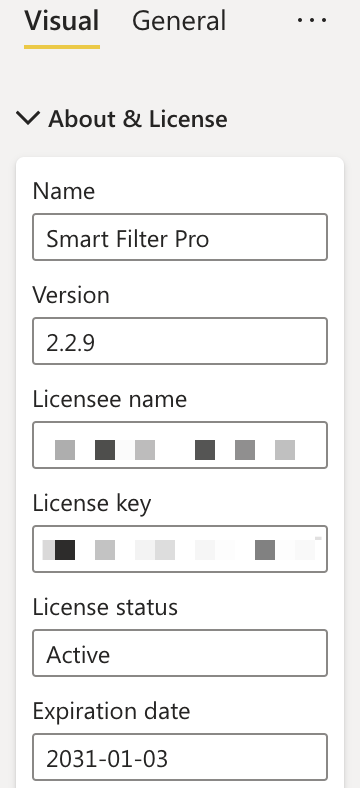
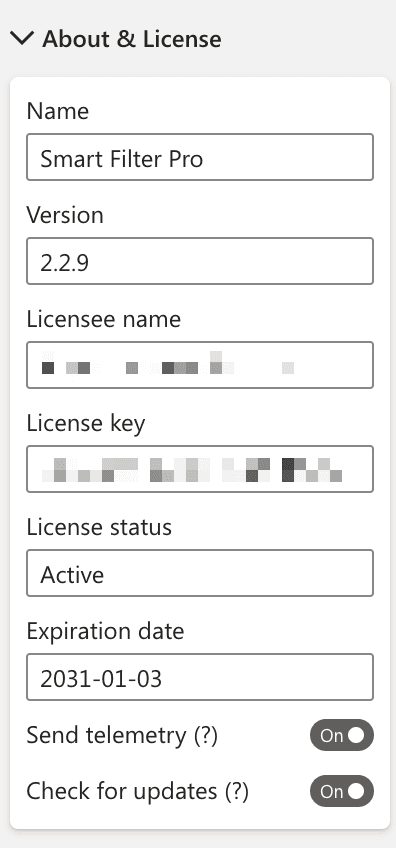
Fix screenshots -2

Changed region(s): [[0.0306, 0.1218, 0.9778, 1.0], [0.0306, 0.0, 0.6417, 0.0609]]

diff --git a/assets/css/main.min.css b/assets/css/main.min.css
@@ -2,4 +2,4 @@
  * OKVIZ Documentation
  * Copyright (c) OKVIZ corp. - All rights reserved.
  * https://docs.okviz.com
[2 lines of base64/hex data omitted]

diff --git a/assets/css/page.less b/assets/css/page.less
@@ -78,6 +78,12 @@
             &.nomargin {
                 margin:0;
             }
+
+            &.naked {
+                border: none;
+                border-radius: 0;
+                .noshadow;
+            }
             &.fl {
                 margin: 0 40px 20px 0;
             }

diff --git a/_docs/smart-filter-pro/options/about/check-for-updates.md b/_docs/smart-filter-pro/options/about/check-for-updates.md
@@ -3,7 +3,7 @@ layout:             page
 title:              Check for Updates
 published:          true
 date:               2021-11-15
-modified:           2022-07-16
+modified:           2022-07-22
 order:              /smart-filter-pro/options/about/check-for-updates
 internal:           updates
 ---
@@ -11,12 +11,12 @@ internal:           updates
 
 Power BI frequently receives updates and thus, custom visuals must interact with this evolving platform synchronously. Updates might be required not only when a user might be interested in new features, but also to guarantee existing features. Bug fixes and updates required to support new versions of Power BI are the two main reasons why keeping the custom visuals up-to-date is important.
 
-> See how to update a visual here: [Updating Visuals](../../../get-started/updating.md)
-
-<img src="images/check-for-updates-option.png" width="180">
+<img src="images/check-for-updates.png" width="220">
 
 Smart Filter Pro sends out notifications about new versions if this option is enabled. It checks if there is a new version of the visual and displays a message only if the report is not in [Reading view](https://docs.microsoft.com/en-us/power-bi/consumer/end-user-reading-view#reading-view) - **don't worry about your published reports!** Also, a notification email about a new version available is sent to the licensee and billing contact of Smart Filter Pro active subscriptions, including a link for the direct download. 
  
-<img src="images/check-for-updates.png" width="400">
+<img src="images/new-update.png" width="420">
 
-> This option is beneficial for users who manually download and update the visual. While for the users who installed Smart Filter Pro from the AppSource, the updates are automatic and invisible. Learn why you could choose the manual approach here: [Installation from AppSource Drawbacks](../../../get-started/installation.md#from-the-appsource)
+> This option is beneficial for users who manually download and update the visual. While for the users who installed Smart Filter Pro from the AppSource, the updates are automatic and invisible. Learn why you could choose the manual approach here: [Installation from AppSource Drawbacks](../../../get-started/installation.md#from-the-appsource
+
+> See how to update a visual here: [Updating Visuals](../../../get-started/updating.md)

diff --git a/_docs/smart-filter-pro/options/about/index.md b/_docs/smart-filter-pro/options/about/index.md
@@ -3,18 +3,22 @@ layout:             page
 title:              About & License
 published:          true
 date:               2021-11-15
-modified:           2022-07-19
+modified:           2022-07-22
 order:              /smart-filter-pro/options/about-license
 internal:           name, version, license, user, key, expiry
 toc:                false
-next_reading:       true
-next_reading_title: Other Options
 ---
 This section contains information about the visual such as the version, licensing details, and options related to telemetry and updates.
 
-<img src="images/about.png" width="180" class="fr">
+## Name
+<img src="images/about.png" width="200" class="fr">
+The name of the visual.
 
-### License
+## Version
+
+The current version of visual.
+
+## License Details
 
 License details include the following fields:
 
@@ -23,6 +27,14 @@ License details include the following fields:
 -	**License status**: Active/Expired *(read-only)*
 -	**Expiration date**: Expiry of the license if not renewed *(read-only)*
 
-Note that licensee name and license key fields may be read-only if you are using Smart Filter Pro from a file - this means that the visual is pre-activated and the license information is hardcoded in the visual itself.
+Learn more where to get this info here: [Smart Filter Pro Licensing](../../licensing.md)
 
-> More information can be found here: [Smart Filter Pro Licensing](../../licensing.md)
+> Note that ***Licensee name*** and ***License key*** may be read-only if you are using Smart Filter Pro from a file - this means that the visual is pre-activated and the license information is hardcoded in the visual itself.
+
+## Send Telemetry 
+
+See dedicated page: [Send Telemetry](send-telemetry.md)
+
+## Check for Updates 
+
+See dedicated page: [Check for updates](check-for-updates.md)

diff --git a/_docs/smart-filter-pro/options/about/send-telemetry.md b/_docs/smart-filter-pro/options/about/send-telemetry.md
@@ -3,7 +3,7 @@ layout:             page
 title:              Send Telemetry
 published:          true
 date:               2021-11-15
-modified:           2021-12-15
+modified:           2022-07-22
 order:              /smart-filter-pro/options/about/send-telemetry
 internal:           telemetry
 ---
@@ -11,6 +11,6 @@ internal:           telemetry
 
 The "Send telemetry" setting, if enabled, sends anonymous data to OKVIZ about the features used in the component. The telemetry data is used to precisely understand which features of Smart Filter Pro are being used - offering better visibility into performance without the need to solicit feedback directly from users. It only sends out anonymous data about the features used and does not send out any personal data from the reports and/or the underlying datasets. However, you may even choose to disable the Telemetry setting in the visual. This setting does not work when you do not have a working Internet connection.
 
-<img src="images/send-telemetry-option.png" width="180">
+<img src="images/send-telemetry.png" width="220">
 
 > More information on the data we send over the Internet can be found here: [Security & Privacy](../../security.md)

diff --git a/_docs/bullet-chart/options/about/index.md b/_docs/bullet-chart/options/about/index.md
@@ -3,25 +3,19 @@ layout:         page
 title:          About
 published:      true
 date:           2022-07-07
-modified:   	2022-07-11
+modified:   	2022-07-22
 order:          /bullet-chart/options/about
+toc:            false
 ---
 
-This properties group displays basic visual's information 
-
-
+This section displays basic visual's information.
+<img src="images/about.png" width="200" class="fr">
 
 ## Name
-
-The name of the visual
-
-<img src="images/about-name.png" width="250">
+The name of the visual.
 
 ## Version
-
-The current version of visual
-
-<img src="images/about-version.png" width="250">
+The current version of visual.
 
 ## Diagnostics
 
@@ -29,5 +23,6 @@ The current version of visual
 
 If selected, this option logs significant information and errors in the script console of the browser. This could affect the performance of your report.
 
-<img src="images/about-diagnostics.png" width="700">
+<img src="images/about-diagnostics.png">
 
+> This option is especially useful when you need to provide additional information on [bug reports](../../../issues/bugs.md). Before submitting a bug, please enable this option and verify if an error has been logged.

diff --git a/_docs/bullet-chart/licensing.md b/_docs/bullet-chart/licensing.md
@@ -25,9 +25,9 @@ Here is an overview of the process required to obtain licenses for Bullet Chart:
 
     If you don't get enough licenses, some of your users will see an [invalid license notification](#invalid-license-notifications) or won't be able to use the visual at all.
 
-2. Visit the [Bullet Chart page on AppSource](ttps://appsource.microsoft.com/en-us/product/power-bi-visuals/WA104380953) and purchase a plan that best suits your requiriments. 
+2. Visit the [Bullet Chart page on AppSource](https://appsource.microsoft.com/en-us/product/power-bi-visuals/WA104380953) and purchase a plan that best suits your requirements. 
 
-    <todo>Screenshot</tod>
+    <img src="images/license-plans.png" width="750">
 
 3. Assign the license(s) to yourself, your users or Active Directory groups via [Microsoft 365 admin center](https://admin.microsoft.com/Adminportal/Home#/subscriptions)
 

diff --git a/_docs/calendar-pro/licensing.md b/_docs/calendar-pro/licensing.md
@@ -25,7 +25,7 @@ Here is an overview of the process required to obtain licenses for Calendar Pro:
 
     If you don't get enough licenses, some of your users will see an [invalid license notification](#invalid-license-notifications) or won't be able to use the visual at all.
 
-2. Visit the [Calendar Pro page on AppSource](https://appsource.microsoft.com/en-US/product/power-bi-visuals/okvizcorp1634637213047.calendarprobyokviz) and purchase a plan that best suits your requiriments. 
+2. Visit the [Calendar Pro page on AppSource](https://appsource.microsoft.com/en-US/product/power-bi-visuals/okvizcorp1634637213047.calendarprobyokviz) and purchase a plan that best suits your requirements. 
 
     <img src="images/license-plans.png" width="750">
 

diff --git a/_docs/calendar-pro/index.md b/_docs/calendar-pro/index.md
@@ -12,6 +12,6 @@ next_reading:       true
 
 **Calendar Pro** is a powerful calendar visual for Power BI. It includes unique features like granularity drilldown and dynamic grouping, different calendar systems such as Gregorian, Weekly, Fiscal, built-in holidays, events support, and advanced color rules - find more on [okviz.com/calendar-pro](https://okviz.com/calendar-pro)
 
-<img src="images/calendar-pro.png" width="600" class="noborder noround noshadow">
+<img src="images/calendar-pro.png" width="600" class="naked">
 
 > [Download and try Calendar Pro](https://appsource.microsoft.com/en-US/product/power-bi-visuals/okvizcorp1634637213047.calendarprobyokviz) from AppSource.

diff --git a/_docs/smart-filter-pro/features/slicing.md b/_docs/smart-filter-pro/features/slicing.md
@@ -8,7 +8,7 @@ order:              /smart-filter-pro/features/slicing
 toc:                false
 ---
 
-There are two types of visuals in Power BI: those that highlight data on user interaction, and those that filter out other visuals in reports; these are called ***Slicers***. Put in other words, slicers are visuals than act like the Power BI Filter pane. 
+There are two types of visuals in Power BI: those that highlight data on user interaction, and those that filter out other visuals in reports; these are called ***Slicers***. Put in other words, slicers are visuals than act like the ***Filters*** pane of your report. 
 
 <img src="images/filter-pane.png" width="180">
 

diff --git a/_docs/smart-filter-pro/index.md b/_docs/smart-filter-pro/index.md
@@ -12,6 +12,6 @@ next_reading:       true
 
 **Smart Filter Pro** is a Power BI custom visual that works like an advanced slicer and allows to filter on multiple data columns - it provides several unique features and can be used in different working modes.
 
-<img src="images/smart-filter-pro.png" width="440" class="noborder noround noshadow">
+<img src="images/smart-filter-pro.png" width="440" class="naked">
 
 > [Download and try Smart Filter Pro](https://okviz.com/smart-filter-pro) from our website.

diff --git a/_docs/smart-filter-pro/features/dropdown.md b/_docs/smart-filter-pro/features/dropdown.md
@@ -22,7 +22,7 @@ related:
 ---
 The Dropdown mode in Smart Filter Pro allows you to select items for filtering data by scrolling down a list, or by typing a few keywords and refining your search with an auto-complete list.
 
-<img src="images/dropdown-mode.png" width="400">
+<img src="images/dropdown-mode.png" width="460" class="naked">
  
 ## Incremental Loading
 
